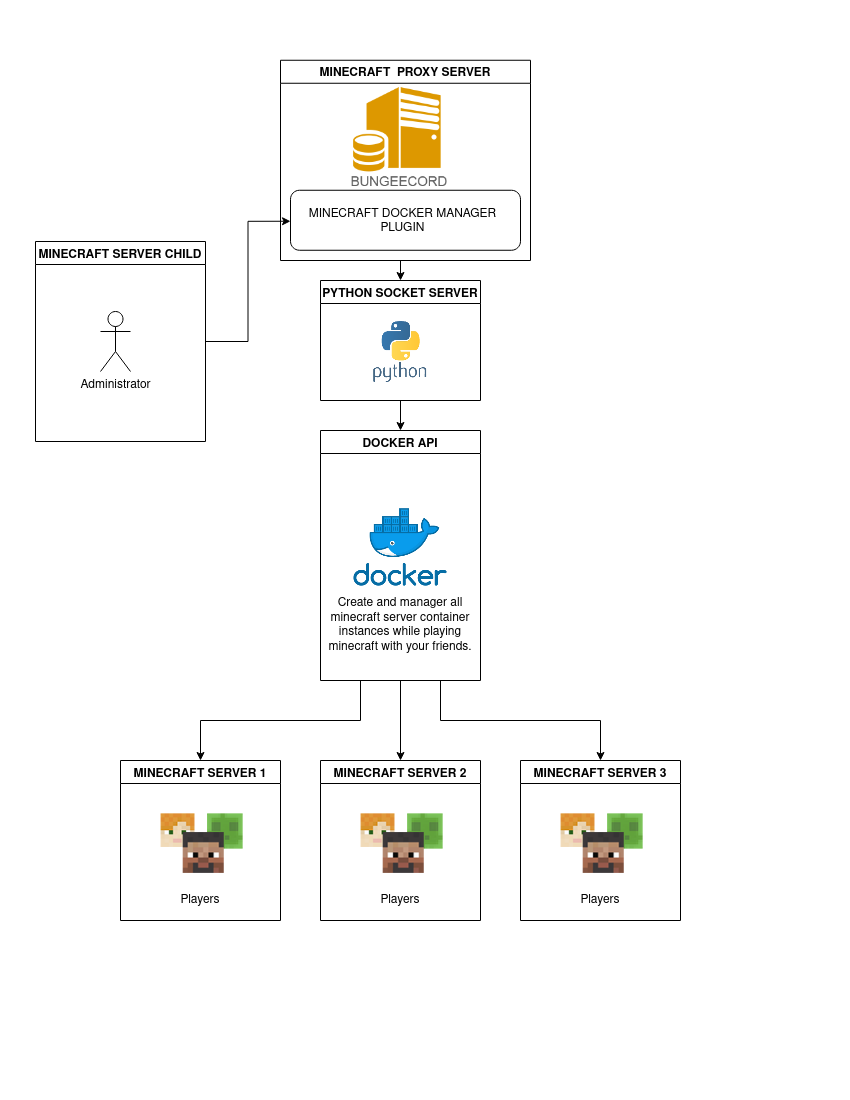
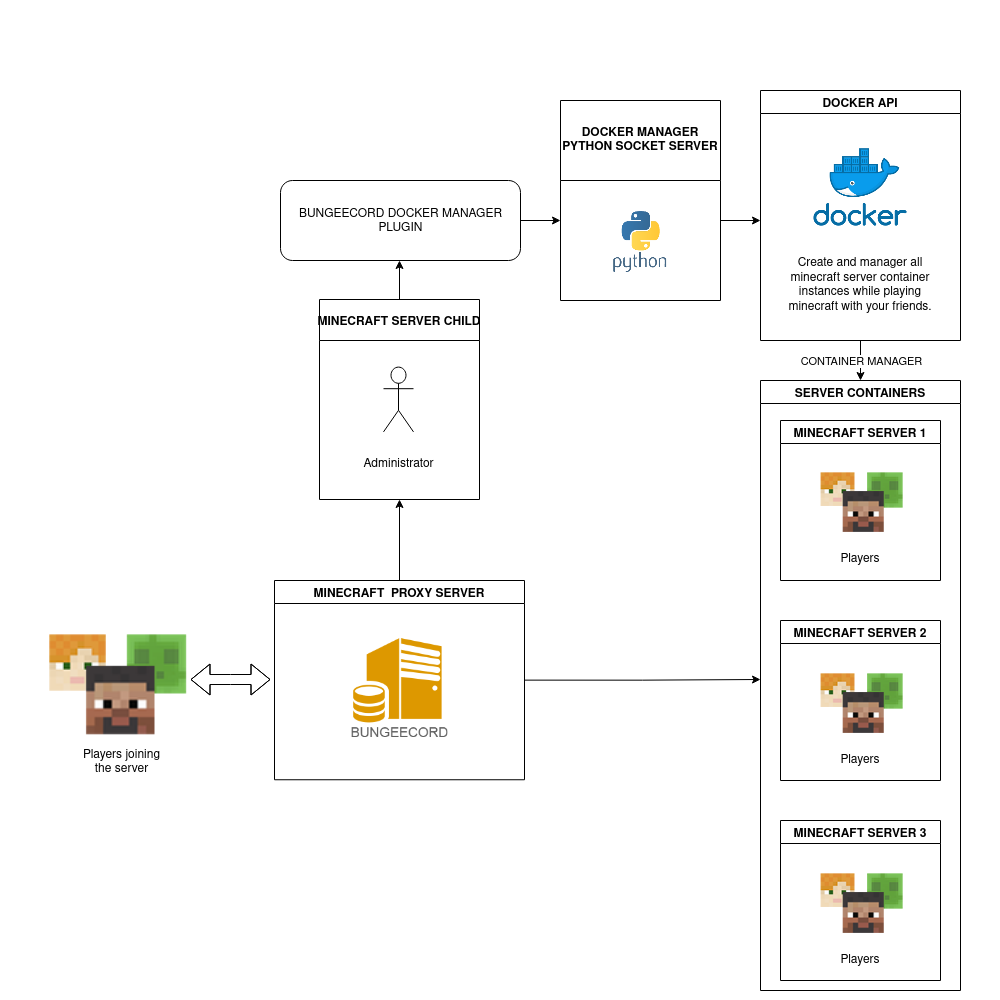
update images

diff --git a/README.md b/README.md
@@ -42,10 +42,13 @@ For Eclipse, run the genEclipseRuns gradle task (gradlew genEclipseRuns). This w
 
 For IntelliJ, run the genIntellijRuns gradle task (gradlew genIntellijRuns). This will generate the Run Configurations and download any required assets for the game to run. If you encounter an error saying “module not specified”, you can either edit the configuration to select your “main” module or specify it through the ideaModule property.
 
+# A fluxogram of minecraft docker manager plugin
+
+![Flow](https://raw.githubusercontent.com/brutalzinn/minecraft-server-dockermanager/master/images/docker_manager_flow.png)
 
 # In game
 
 ### Typing /docker list to show all servers
-![Print 1](https://raw.githubusercontent.com/brutalzinn/minecraft-server-dockermanager/master/print1.png)
+![Print 1](https://raw.githubusercontent.com/brutalzinn/minecraft-server-dockermanager/master/images/print1.png)
 ### Creating a minecraft forge 36.1.32 server for minecraft 1.16.5
-![Print 2](https://raw.githubusercontent.com/brutalzinn/minecraft-server-dockermanager/master/print2.png)
+![Print 2](https://raw.githubusercontent.com/brutalzinn/minecraft-server-dockermanager/master/images/print2.png)

diff --git a/README.pt.md b/README.pt.md
@@ -42,10 +42,9 @@ Para Eclipse, execute a tarefa gradle genEclipseRuns (gradlew genEclipseRuns). I
 
 Para IntelliJ, execute a tarefa gradle genIntellijRuns (gradlew genIntellijRuns). Isso gerará as configurações de execução e fará o download de todos os recursos necessários para que o jogo seja executado. Se você encontrar um erro dizendo “módulo não especificado”, você pode editar a configuração para selecionar seu módulo “principal” ou especificá-lo através da propriedade ideaModule.
 
-# A fluxogram of minecraft docker manager plugin
+# Fluxograma para o Bungeecord dockermanager plugin
 
 ![Flow](https://raw.githubusercontent.com/brutalzinn/minecraft-server-dockermanager/master/images/docker_manager_flow.png)
-
 
 # In game
 
